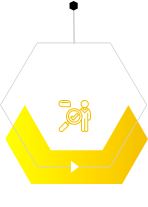
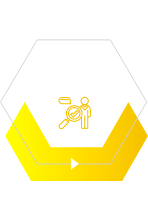
mais ajustes

diff --git a/index.html b/index.html
@@ -126,7 +126,7 @@
     <section 
       id="slider" 
       class="slider-element slider-parallax swiper_wrapper min-vh-75 min-vh-md-100 include-header"
-      data-autoplay="7000"
+      data-autoplay="700000"
       data-speed="1500"
       data-loop="false"
       data-effect="slide"
@@ -150,7 +150,8 @@
                     </div>
                     <p class="heading-block-text" >
                       Transformamos empresas e empreendedores, polinizando a gestão eficiente para construir negócios
-                      extraordinários, perenes e lucrativos.
+                      extraordinários, perenes e lucrativos, permitindo que o empresário foque no que mais agrega valor
+                      ao negócio
                     </p>
                   </div>
                 </div>
@@ -165,37 +166,6 @@
               </div>
             </div>
             
-            <!-- Slide2 -->
-            <div class="swiper-slide hero-slide-2">
-              <div class="container">
-                <div class="row align-items-center h-100">
-                  <div class="col-12">
-                    <div class="hero-heading-block">
-                      <div class="hero-heading-block-symbol">
-                        <img class="hero-heading-block-svg" src="images/polinizee/hero-2-title.svg" alt="">
-                        <h2 class="hero-heading-block-title">Atuação estratégica e executiva</h2>
-                      </div>
-                      <h1 class="hero-heading-block-title back">Atuação estratégica e executiva</h1>
-                    </div>
-                    <p class="heading-block-text">
-                      Junto das lideranças mergulhamos
-                      de cabeça em todo o projeto e
-                      histórico da empresa formando
-                      um quadro analítico e estratégico.
-                    </p>
-                  </div>
-                </div>
-              </div>
-              <div class="hero-feature">
-                <div class="hero-figure" data-animate="fadeInRight">
-                  <img src="images/polinizee/hero-2-figure.svg" alt="">
-                </div>
-                <div class="hero-image" data-animate="fadeInRight" data-delay="100">
-                  <img src="images/polinizee/hero-2.png" alt="">
-                </div>
-              </div>
-            </div>
-
             <!-- Slide2-B -->
             <div class="swiper-slide hero-slide-2">
               <div class="container">
@@ -209,10 +179,9 @@
                       <h1 class="hero-heading-block-title back">Atuação estratégica e executiva</h1>
                     </div>
                     <p class="heading-block-text">
-                      Junto das lideranças mergulhamos
-                      de cabeça em todo o projeto e
-                      histórico da empresa formando
-                      um quadro analítico e estratégico.
+                      Junto das lideranças construímos uma estratégia que represente a visão da organização. Mergulhamos
+                      em todo o projeto e histórico da empresa formando um quadro analítico. Analisamos o mercado, as
+                      vantagens e desvantagens competitivas, gargalos e oportunidades e determinamos a linha de atuação
                     </p>
                   </div>
                 </div>
@@ -240,10 +209,9 @@
                       <h1 class="hero-heading-block-title back">Implementação Objetiva e Ágil</h1>
                     </div>
                     <p class="heading-block-text">
-                      Instrumentalizamos a execução lançando
-                      mão de ferramentas ágeis e acessíveis
-                      que promovam a coesão das áreas
-                      de negócio.
+                      Instrumentalizamos a execução lançando mão de ferramentas ágeis e acessíveis que promovam a coesão
+                      das áreas de negócio, incluindo parceiros e fornecedores. Desde o início, a execução é preparada
+                      para adaptação e resposta rápida frente a mudanças de cenários
                     </p>
                   </div>
                 </div>
@@ -258,37 +226,6 @@
               </div>
             </div>
 
-            <!-- Slide4 -->
-            <div class="swiper-slide hero-slide-4">
-              <div class="container">
-                <div class="row align-items-center h-100">
-                  <div class="col-12">
-                    <div class="hero-heading-block">
-                      <div class="hero-heading-block-symbol">
-                        <img class="hero-heading-block-svg" src="images/polinizee/hero-4-title.svg" alt="">
-                        <h2 class="hero-heading-block-title">Transformação Cultural</h2>
-                      </div>
-                      <h1 class="hero-heading-block-title back">Transformação Cultural</h1>
-                    </div>
-                    <p class="heading-block-text">
-                      Instrumentalizamos a execução lançando
-                      mão de ferramentas ágeis e acessíveis
-                      que promovam a coesão das áreas
-                      de negócio.
-                    </p>
-                  </div>
-                </div>
-              </div>
-              <div class="hero-feature">
-                <div class="hero-figure" data-animate="fadeInRight" data-delay="0">
-                  <img src="images/polinizee/hero-4-figure.svg" alt="">
-                </div>
-                <div class="hero-image" data-animate="fadeInRight" data-delay="100">
-                  <img src="images/polinizee/hero-4.png" alt="">
-                </div>
-              </div>
-            </div>
-            
             <!-- Slide4-B -->
             <div class="swiper-slide hero-slide-4">
               <div class="container">
@@ -302,10 +239,9 @@
                       <h1 class="hero-heading-block-title back">Transformação Cultural</h1>
                     </div>
                     <p class="heading-block-text">
-                      Instrumentalizamos a execução lançando
-                      mão de ferramentas ágeis e acessíveis
-                      que promovam a coesão das áreas
-                      de negócio.
+                      Permanecemos na implementação e apropriação dos novos conceitos, técnicas e processos até que
+                      façam parte da cultura organizacional. Deixamos a cena com a certeza de que a companhia e seus
+                      colaboradores seguirão antecipando desafios e buscando novos caminhos
                     </p>
                   </div>
                 </div>
@@ -324,7 +260,7 @@
           <!-- Numeração -->
           <div class="slide-number">
             <div class="slide-number-current">1</div><span>/</span>
-            <div class="slide-number-total">3</div>
+            <div class="slide-number-total">4</div>
           </div>
 
           <!-- Dots -->
@@ -629,7 +565,11 @@
           <section class="info-como-fazemos hide-on-mobile">
             <div class="info-area">
               <!-- 1. -->
-              <div class="info-item" style="background-image: url(images/polinizee/block-1-alinhamento.svg);">
+              <div 
+                class="info-item" 
+                style="background-image: url(images/polinizee/block-1-alinhamento.svg);"
+                data-animate="fadeInRight" data-delay="0"
+              >
                 <h2 class="info-center-title">
                   ALINHAMENTO
                 </h2>
@@ -643,7 +583,11 @@
               </div>
               
               <!-- 2. -->
-              <div class="info-item" style="background-image: url(images/polinizee/block-2-diagnostico.svg);">
+              <div 
+                class="info-item" 
+                style="background-image: url(images/polinizee/block-2-diagnostico.svg);"
+                data-animate="fadeInRight" data-delay="150"
+              >
                 <h2 class="info-center-title">
                   DIAGNÓSTICO
                 </h2>
@@ -657,7 +601,11 @@
               </div>
 
               <!-- 3. -->
-              <div class="info-item" style="background-image: url(images/polinizee/block-3-planejamento.svg);">
+              <div 
+                class="info-item" 
+                style="background-image: url(images/polinizee/block-3-planejamento.svg);"
+                data-animate="fadeInRight" data-delay="300"
+              >
                 <h2 class="info-center-title">
                   PLANEJAMENTO
                 </h2>
@@ -671,7 +619,11 @@
               </div>
 
               <!-- 4. -->
-              <div class="info-item" style="background-image: url(images/polinizee/block-4-hands-on.svg);">
+              <div 
+                class="info-item" 
+                style="background-image: url(images/polinizee/block-4-hands-on.svg);"
+                data-animate="fadeInRight" data-delay="450"
+              >
                 <h2 class="info-center-title">
                   HANDS ON
                 </h2>
@@ -685,7 +637,11 @@
               </div>
 
               <!-- 5. -->
-              <div class="info-item" style="background-image: url(images/polinizee/block-5-revisao.svg);">
+              <div 
+                class="info-item" 
+                style="background-image: url(images/polinizee/block-5-revisao.svg);"
+                data-animate="fadeInRight" data-delay="600"
+              >
                 <h2 class="info-center-title">
                   REVISÃO
                 </h2>
@@ -699,6 +655,7 @@
               </div>
             </div>
           </section>
+          
           
           <!-- Mobile -->
           <section class="mobile-only">

diff --git a/css/custom.css b/css/custom.css
@@ -224,10 +224,10 @@
 .heading-block-text {
 	position: relative;	
 	z-index: 2;
-	width: 480px;
+	width: 40vw;
 	font-family: 'GeosansLight';
-	font-size: 2.4rem;
-	line-height: 2.4rem;
+	font-size: 1.8rem;
+	line-height: 1.8rem;
 	font-weight: bold;
 	transform: translateX(60px);
 	margin-top: 40px;
@@ -281,7 +281,7 @@
 }
 .hero-slide-1 .hero-image img {
 	transform-origin: bottom right;
-	transform: scale(0.9) translateX(-120px);
+	transform: scale(0.85) translateX(-80px) translateY(-60px);
 }
 
 .hero-slide-2 .hero-figure img{
@@ -313,7 +313,14 @@
 
 /* Extra small devices < 576px (large phones, portrait small phones) */
 @media (max-width: 575.98px) {
-	#slider .heading-block-title {
+	#slider .swiper-slide {
+		padding-top: 0;
+	}
+	/* #slider .hero-heading-block {
+		height: initial !important;
+	} */
+	#slider .heading-block-title.back {
+		/* position: unset !important; */
 		font-size: 2rem;
 		line-height: 2.5rem;
 	}
@@ -321,8 +328,50 @@
 		font-size: 1rem;
 	}
 	#slider .heading-block-text {
+		/* position: unset !important; */
 		font-size: 1rem;
 		line-height: 1.4rem;
+		margin-top: 0;
+	}
+	
+	/* Slide 1 */
+	#slider .hero-slide-1 .heading-block-text {
+		top: 0;
+	}
+	
+	/* Slide 2 */
+	.hero-slide-2 .heading-block-text {
+		top: 200px !important;
+	}
+	.hero-slide-2 .hero-figure img{
+		transform: scale(.7) translate(50px, 50px) !important;
+	}
+	
+	/* Slide 3 */
+	#slider .hero-slide-3 .heading-block-text {
+		top: 150px !important;
+	}
+	
+	/* Slide 4 */
+	.hero-slide-4 .heading-block-text {
+		outline: solid 1px red;
+		
+		top: 150px !important;
+	}
+	.hero-slide-4 .hero-figure {
+		/* top: initial !important;
+		left: initial !important;
+		bottom: 0 !important;
+		right: 0 !important; */
+	}
+	#slider .hero-slide-4 .hero-figure img{
+		transform: scale(.5) translate(30px, 0) !important;
+		/* transform-origin: bottom left; */
+		/* transform: scale(.7) translate(30px, 0) !important; */
+	}
+	.hero-slide-4 .hero-image img {
+		/* transform-origin: bottom right; */
+		/* transform: scale(.75) translate(-85px, 0) ; */
 	}
 }
  
@@ -350,21 +399,24 @@
 		transform: translate(0, 0);
 	}
 	.hero-heading-block-title::first-letter {
-		font-size: 5rem !important;
+		font-size: 4rem !important;
 		line-height: 2rem !important;
 	}
 	.hero-heading-block-title.back {
 		text-align: right;
 		transform:translateX(-40px);
 		line-height: 3.8rem;
+		/* top: 0; */
 	}	
 	.heading-block-text {
+		/* outline: solid 1px red; */
+		
 		position: absolute;
-		top: 140px;
+		top: 80px;
 		width: 90vw;
 		min-width: 90vw;
-		font-size: 1.8rem !important;
-		line-height: 2rem !important;
+		font-size: 1.4rem !important;
+		line-height: 1.6rem !important;
 		text-align: center;
 	}
 	.hero-feature {
@@ -422,7 +474,7 @@
 		transform: translateX(-50%);
 	}
 	.hero-slide-3 .heading-block-text {
-		top: 100px !important;
+		top: 100px ;
 	}
 	.hero-slide-3 .hero-figure img{
 		transform-origin: top left !important;
@@ -710,8 +762,6 @@
 	overflow-x: scroll;
 }
 .info-como-fazemos .info-item {
-	/* outline: solid 1px red; */
-	
 	position: relative;
 	background-repeat: no-repeat;
 	background-position: center;
@@ -721,10 +771,10 @@
 }
 .info-como-fazemos .info-center-title {
 	font-family: 'ChunkFive', sans-serif;
-	font-size: .9rem;
+	font-size: .8rem;
 	line-height: .9rem;
 	margin: 0 0 10px;
-	letter-spacing: 1px;
+	letter-spacing: .12px;
 	text-align: center;
 	position: absolute;
 	top: 50%;
@@ -735,9 +785,9 @@
 	position: absolute;
 }
 .info-como-fazemos .info-extra-content h3 {
-	font-family: 'ChunkFive', sans-serif;
-	font-size: 1.2rem;
-	line-height: 1.4rem;
+	font-weight: bold;
+	font-size: 1.1rem;
+	line-height: 1.3rem;
 	margin: 0 0 10px;
 	letter-spacing: 1px;
 }
